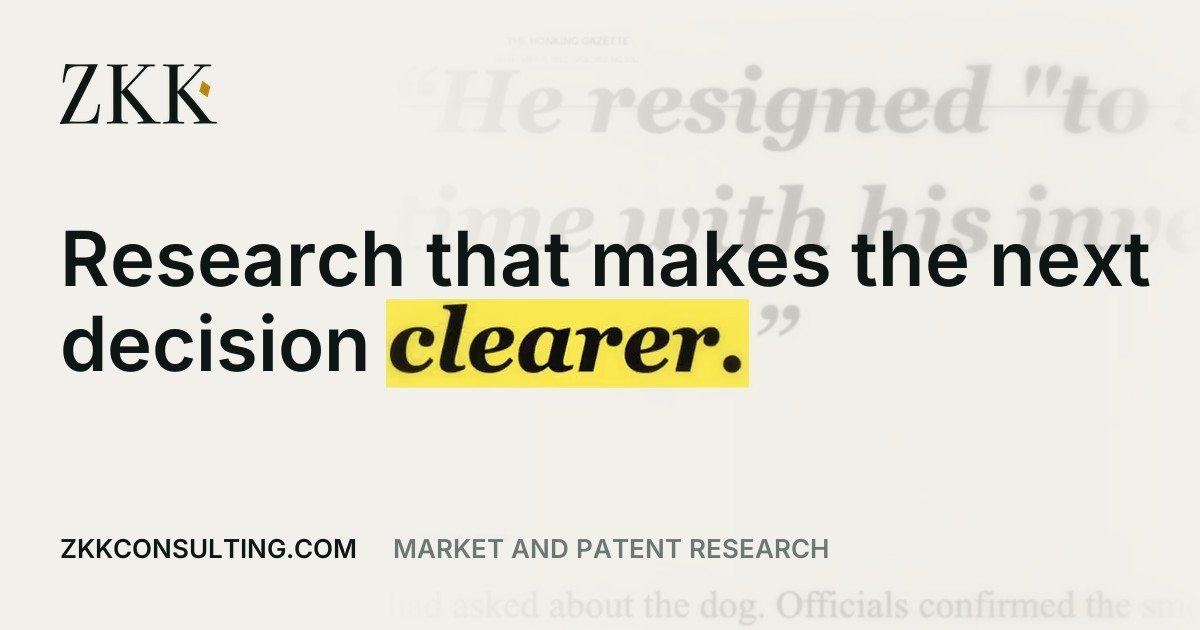
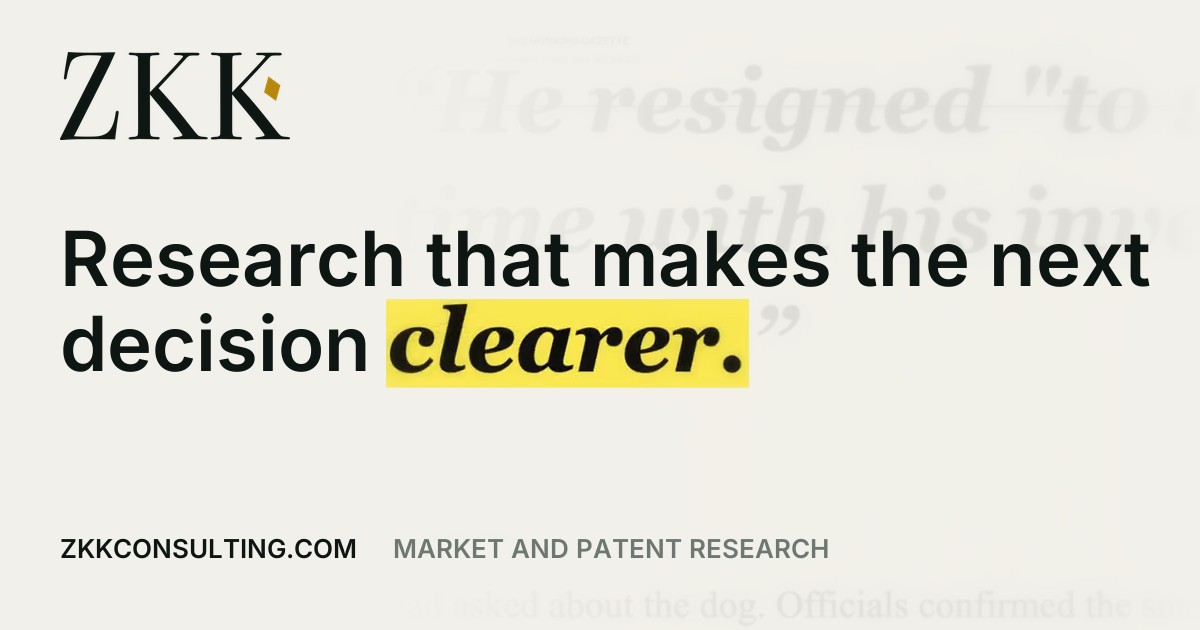
Research intro leads with what ZKK does for any company, quieter link styling, og-image with a bigger ZKK mark and a fainter ghost frame

Changed region(s): [[0.0308, 0.0603, 0.2467, 0.2413]]

diff --git a/index.html b/index.html
@@ -11,14 +11,14 @@
   <meta property="og:title" content="Engineering-Led Product Consulting &amp; Market Research | ZKK" />
   <meta property="og:description" content="Fixed-price market research, patent landscapes, competitive pricing and strategy for engineering-led products. Startups and device teams. From $2,499." />
   <meta property="og:url" content="https://zkkconsulting.com/" />
-  <meta property="og:image" content="https://zkkconsulting.com/og-image.jpg?v=2" />
+  <meta property="og:image" content="https://zkkconsulting.com/og-image.jpg?v=3" />
   <meta property="og:image:width" content="1200" />
   <meta property="og:image:height" content="630" />
   <meta property="og:image:alt" content="ZKK Consulting: Research that makes the next decision clearer." />
   <meta name="twitter:card" content="summary_large_image" />
   <meta name="twitter:title" content="Engineering-Led Product Consulting &amp; Market Research | ZKK" />
   <meta name="twitter:description" content="Fixed-price market research, patent landscapes, competitive pricing and strategy for engineering-led products. Startups and device teams. From $2,499." />
-  <meta name="twitter:image" content="https://zkkconsulting.com/og-image.jpg?v=2" />
+  <meta name="twitter:image" content="https://zkkconsulting.com/og-image.jpg?v=3" />
 
   <meta name="author" content="ZKK Consulting" />
   <meta name="theme-color" content="#fbfaf7" />
@@ -39,7 +39,7 @@
   <link rel="preconnect" href="https://fonts.googleapis.com">
   <link rel="preconnect" href="https://fonts.gstatic.com" crossorigin>
   <link href="https://fonts.googleapis.com/css2?family=Lora:ital,wght@0,400;0,500;0,600;0,700;1,400&family=Inter:wght@300;400;500;600;700;800&display=swap" rel="stylesheet">
-  <link rel="stylesheet" href="/assets/site.css?v=20261121n">
+  <link rel="stylesheet" href="/assets/site.css?v=20261121o">
   <script type="application/ld+json">
   {
     "@context": "https://schema.org",
@@ -182,7 +182,7 @@
 
   <section id="research" class="hs">
     <h2>What we research</h2>
-    <p class="h-lede h-intro"><a href="/market-sizing-for-startups/">Market sizing</a>, <a href="/medical-device-competitive-landscape/">competitor analysis</a> and <a href="/patent-landscape-research/">patent landscape research</a> for hardware startups and medical device teams.</p>
+    <p class="h-lede h-intro">We help companies make better business and product decisions with technical, financial and competitive research: <a href="/market-sizing-for-startups/">market sizing</a>, <a href="/medical-device-competitive-landscape/">competitor analysis</a>, <a href="/patent-landscape-research/">patent landscapes</a> and more. Built for startups and medical device teams, open to any industry.</p>
     <div class="h-tiles">
       <div class="h-tile"><svg viewBox="0 0 24 24" aria-hidden="true"><circle cx="11" cy="11" r="7"/><path d="M20 20l-3.5-3.5"/></svg><h3>Competitors</h3><p>Who you are up against, how they price, and where the gaps are.</p></div>
       <div class="h-tile"><svg viewBox="0 0 24 24" aria-hidden="true"><path d="M4 19V5"/><path d="M4 19h16"/><path d="M8 15v-4M12 15V8M16 15v-6"/></svg><h3>Market size</h3><p>TAM, SAM and SOM built from sources you can check.</p></div>

diff --git a/insights/consultant-vs-diy-ai-research/index.html b/insights/consultant-vs-diy-ai-research/index.html
@@ -11,14 +11,14 @@
   <meta property="og:title" content="Research Consultant vs DIY and AI Research | ZKK" />
   <meta property="og:description" content="Compare hiring a research consultant with doing market research yourself or with AI tools: time, sources, assumptions, risk and cost. Book a call to discuss." />
   <meta property="og:url" content="https://zkkconsulting.com/insights/consultant-vs-diy-ai-research/" />
-  <meta property="og:image" content="https://zkkconsulting.com/og-image.jpg?v=2" />
+  <meta property="og:image" content="https://zkkconsulting.com/og-image.jpg?v=3" />
   <meta property="og:image:width" content="1200" />
   <meta property="og:image:height" content="630" />
   <meta property="og:image:alt" content="ZKK Consulting: Research that makes the next decision clearer." />
   <meta name="twitter:card" content="summary_large_image" />
   <meta name="twitter:title" content="Research Consultant vs DIY and AI Research | ZKK" />
   <meta name="twitter:description" content="Compare hiring a research consultant with doing market research yourself or with AI tools: time, sources, assumptions, risk and cost. Book a call to discuss." />
-  <meta name="twitter:image" content="https://zkkconsulting.com/og-image.jpg?v=2" />
+  <meta name="twitter:image" content="https://zkkconsulting.com/og-image.jpg?v=3" />
 
   <meta name="author" content="ZKK Consulting" />
   <meta name="theme-color" content="#0a0c0b" />
@@ -30,7 +30,7 @@
   <link rel="preconnect" href="https://fonts.gstatic.com" crossorigin>
   <link href="https://fonts.googleapis.com/css2?family=Lora:ital,wght@0,400;0,500;0,600;0,700;1,400&family=Inter:wght@300;400;500;600&display=swap" rel="stylesheet">
   <link rel="stylesheet" href="/assets/blueprint.css?v=5">
-  <link rel="stylesheet" href="/assets/site.css?v=20261121n">
+  <link rel="stylesheet" href="/assets/site.css?v=20261121o">
   <link rel="stylesheet" href="/assets/prose.css?v=20261113a">
   <script type="application/ld+json">
   {
@@ -51,7 +51,7 @@
       "@id": "https://zkkconsulting.com/#org",
       "name": "ZKK Consulting"
     },
-    "image": "https://zkkconsulting.com/og-image.jpg?v=2"
+    "image": "https://zkkconsulting.com/og-image.jpg?v=3"
   }
   </script>
   <script type="application/ld+json">

diff --git a/insights/how-to-size-a-market-for-a-new-device/index.html b/insights/how-to-size-a-market-for-a-new-device/index.html
@@ -11,14 +11,14 @@
   <meta property="og:title" content="How to Size a Market for a New Device | ZKK" />
   <meta property="og:description" content="A step-by-step guide to sizing the market for a new hardware or medical device, from buyer and unit of count to sensitivity. Book a call if you want help." />
   <meta property="og:url" content="https://zkkconsulting.com/insights/how-to-size-a-market-for-a-new-device/" />
-  <meta property="og:image" content="https://zkkconsulting.com/og-image.jpg?v=2" />
+  <meta property="og:image" content="https://zkkconsulting.com/og-image.jpg?v=3" />
   <meta property="og:image:width" content="1200" />
   <meta property="og:image:height" content="630" />
   <meta property="og:image:alt" content="ZKK Consulting: Research that makes the next decision clearer." />
   <meta name="twitter:card" content="summary_large_image" />
   <meta name="twitter:title" content="How to Size a Market for a New Device | ZKK" />
   <meta name="twitter:description" content="A step-by-step guide to sizing the market for a new hardware or medical device, from buyer and unit of count to sensitivity. Book a call if you want help." />
-  <meta name="twitter:image" content="https://zkkconsulting.com/og-image.jpg?v=2" />
+  <meta name="twitter:image" content="https://zkkconsulting.com/og-image.jpg?v=3" />
 
   <meta name="author" content="ZKK Consulting" />
   <meta name="theme-color" content="#0a0c0b" />
@@ -30,7 +30,7 @@
   <link rel="preconnect" href="https://fonts.gstatic.com" crossorigin>
   <link href="https://fonts.googleapis.com/css2?family=Lora:ital,wght@0,400;0,500;0,600;0,700;1,400&family=Inter:wght@300;400;500;600&display=swap" rel="stylesheet">
   <link rel="stylesheet" href="/assets/blueprint.css?v=5">
-  <link rel="stylesheet" href="/assets/site.css?v=20261121n">
+  <link rel="stylesheet" href="/assets/site.css?v=20261121o">
   <link rel="stylesheet" href="/assets/prose.css?v=20261113a">
   <script type="application/ld+json">
   {
@@ -51,7 +51,7 @@
       "@id": "https://zkkconsulting.com/#org",
       "name": "ZKK Consulting"
     },
-    "image": "https://zkkconsulting.com/og-image.jpg?v=2"
+    "image": "https://zkkconsulting.com/og-image.jpg?v=3"
   }
   </script>
   <script type="application/ld+json">

diff --git a/insights/competitor-analysis-for-pitch-deck/index.html b/insights/competitor-analysis-for-pitch-deck/index.html
@@ -11,14 +11,14 @@
   <meta property="og:title" content="Competitor Analysis for a Pitch Deck | ZKK" />
   <meta property="og:description" content="How to build a competitor slide and analysis for a pitch deck: pick the right competitors, compare what buyers care about, and expect investor questions." />
   <meta property="og:url" content="https://zkkconsulting.com/insights/competitor-analysis-for-pitch-deck/" />
-  <meta property="og:image" content="https://zkkconsulting.com/og-image.jpg?v=2" />
+  <meta property="og:image" content="https://zkkconsulting.com/og-image.jpg?v=3" />
   <meta property="og:image:width" content="1200" />
   <meta property="og:image:height" content="630" />
   <meta property="og:image:alt" content="ZKK Consulting: Research that makes the next decision clearer." />
   <meta name="twitter:card" content="summary_large_image" />
   <meta name="twitter:title" content="Competitor Analysis for a Pitch Deck | ZKK" />
   <meta name="twitter:description" content="How to build a competitor slide and analysis for a pitch deck: pick the right competitors, compare what buyers care about, and expect investor questions." />
-  <meta name="twitter:image" content="https://zkkconsulting.com/og-image.jpg?v=2" />
+  <meta name="twitter:image" content="https://zkkconsulting.com/og-image.jpg?v=3" />
 
   <meta name="author" content="ZKK Consulting" />
   <meta name="theme-color" content="#0a0c0b" />
@@ -30,7 +30,7 @@
   <link rel="preconnect" href="https://fonts.gstatic.com" crossorigin>
   <link href="https://fonts.googleapis.com/css2?family=Lora:ital,wght@0,400;0,500;0,600;0,700;1,400&family=Inter:wght@300;400;500;600&display=swap" rel="stylesheet">
   <link rel="stylesheet" href="/assets/blueprint.css?v=5">
-  <link rel="stylesheet" href="/assets/site.css?v=20261121n">
+  <link rel="stylesheet" href="/assets/site.css?v=20261121o">
   <link rel="stylesheet" href="/assets/prose.css?v=20261113a">
   <script type="application/ld+json">
   {
@@ -51,7 +51,7 @@
       "@id": "https://zkkconsulting.com/#org",
       "name": "ZKK Consulting"
     },
-    "image": "https://zkkconsulting.com/og-image.jpg?v=2"
+    "image": "https://zkkconsulting.com/og-image.jpg?v=3"
   }
   </script>
   <script type="application/ld+json">

diff --git a/insights/how-to-do-a-patent-landscape-search/index.html b/insights/how-to-do-a-patent-landscape-search/index.html
@@ -11,14 +11,14 @@
   <meta property="og:title" content="How to Do a Patent Landscape Search | ZKK" />
   <meta property="og:description" content="How a patent landscape search is structured: scope, databases, CPC classification, filtering, comparison matrices, and limits. Book a call to learn more." />
   <meta property="og:url" content="https://zkkconsulting.com/insights/how-to-do-a-patent-landscape-search/" />
-  <meta property="og:image" content="https://zkkconsulting.com/og-image.jpg?v=2" />
+  <meta property="og:image" content="https://zkkconsulting.com/og-image.jpg?v=3" />
   <meta property="og:image:width" content="1200" />
   <meta property="og:image:height" content="630" />
   <meta property="og:image:alt" content="ZKK Consulting: Research that makes the next decision clearer." />
   <meta name="twitter:card" content="summary_large_image" />
   <meta name="twitter:title" content="How to Do a Patent Landscape Search | ZKK" />
   <meta name="twitter:description" content="How a patent landscape search is structured: scope, databases, CPC classification, filtering, comparison matrices, and limits. Book a call to learn more." />
-  <meta name="twitter:image" content="https://zkkconsulting.com/og-image.jpg?v=2" />
+  <meta name="twitter:image" content="https://zkkconsulting.com/og-image.jpg?v=3" />
 
   <meta name="author" content="ZKK Consulting" />
   <meta name="theme-color" content="#0a0c0b" />
@@ -30,7 +30,7 @@
   <link rel="preconnect" href="https://fonts.gstatic.com" crossorigin>
   <link href="https://fonts.googleapis.com/css2?family=Lora:ital,wght@0,400;0,500;0,600;0,700;1,400&family=Inter:wght@300;400;500;600&display=swap" rel="stylesheet">
   <link rel="stylesheet" href="/assets/blueprint.css?v=5">
-  <link rel="stylesheet" href="/assets/site.css?v=20261121n">
+  <link rel="stylesheet" href="/assets/site.css?v=20261121o">
   <link rel="stylesheet" href="/assets/prose.css?v=20261113a">
   <script type="application/ld+json">
   {
@@ -51,7 +51,7 @@
       "@id": "https://zkkconsulting.com/#org",
       "name": "ZKK Consulting"
     },
-    "image": "https://zkkconsulting.com/og-image.jpg?v=2"
+    "image": "https://zkkconsulting.com/og-image.jpg?v=3"
   }
   </script>
   <script type="application/ld+json">

diff --git a/insights/landscape-vs-freedom-to-operate/index.html b/insights/landscape-vs-freedom-to-operate/index.html
@@ -11,14 +11,14 @@
   <meta property="og:title" content="Patent Landscape vs Freedom to Operate | ZKK" />
   <meta property="og:description" content="A patent landscape maps filing activity in your field. Freedom to operate is a legal analysis. Learn the difference and when a startup needs each one." />
   <meta property="og:url" content="https://zkkconsulting.com/insights/landscape-vs-freedom-to-operate/" />
-  <meta property="og:image" content="https://zkkconsulting.com/og-image.jpg?v=2" />
+  <meta property="og:image" content="https://zkkconsulting.com/og-image.jpg?v=3" />
   <meta property="og:image:width" content="1200" />
   <meta property="og:image:height" content="630" />
   <meta property="og:image:alt" content="ZKK Consulting: Research that makes the next decision clearer." />
   <meta name="twitter:card" content="summary_large_image" />
   <meta name="twitter:title" content="Patent Landscape vs Freedom to Operate | ZKK" />
   <meta name="twitter:description" content="A patent landscape maps filing activity in your field. Freedom to operate is a legal analysis. Learn the difference and when a startup needs each one." />
-  <meta name="twitter:image" content="https://zkkconsulting.com/og-image.jpg?v=2" />
+  <meta name="twitter:image" content="https://zkkconsulting.com/og-image.jpg?v=3" />
 
   <meta name="author" content="ZKK Consulting" />
   <meta name="theme-color" content="#0a0c0b" />
@@ -30,7 +30,7 @@
   <link rel="preconnect" href="https://fonts.gstatic.com" crossorigin>
   <link href="https://fonts.googleapis.com/css2?family=Lora:ital,wght@0,400;0,500;0,600;0,700;1,400&family=Inter:wght@300;400;500;600&display=swap" rel="stylesheet">
   <link rel="stylesheet" href="/assets/blueprint.css?v=5">
-  <link rel="stylesheet" href="/assets/site.css?v=20261121n">
+  <link rel="stylesheet" href="/assets/site.css?v=20261121o">
   <link rel="stylesheet" href="/assets/prose.css?v=20261113a">
   <script type="application/ld+json">
   {
@@ -51,7 +51,7 @@
       "@id": "https://zkkconsulting.com/#org",
       "name": "ZKK Consulting"
     },
-    "image": "https://zkkconsulting.com/og-image.jpg?v=2"
+    "image": "https://zkkconsulting.com/og-image.jpg?v=3"
   }
   </script>
   <script type="application/ld+json">

diff --git a/insights/tam-sam-som-medical-devices/index.html b/insights/tam-sam-som-medical-devices/index.html
@@ -11,14 +11,14 @@
   <meta property="og:title" content="TAM, SAM, and SOM for Medical Devices | ZKK" />
   <meta property="og:description" content="How TAM, SAM, and SOM work for medical devices, with a simple hypothetical example and the mistakes that fail diligence. Book a call to talk it through." />
   <meta property="og:url" content="https://zkkconsulting.com/insights/tam-sam-som-medical-devices/" />
-  <meta property="og:image" content="https://zkkconsulting.com/og-image.jpg?v=2" />
+  <meta property="og:image" content="https://zkkconsulting.com/og-image.jpg?v=3" />
   <meta property="og:image:width" content="1200" />
   <meta property="og:image:height" content="630" />
   <meta property="og:image:alt" content="ZKK Consulting: Research that makes the next decision clearer." />
   <meta name="twitter:card" content="summary_large_image" />
   <meta name="twitter:title" content="TAM, SAM, and SOM for Medical Devices | ZKK" />
   <meta name="twitter:description" content="How TAM, SAM, and SOM work for medical devices, with a simple hypothetical example and the mistakes that fail diligence. Book a call to talk it through." />
-  <meta name="twitter:image" content="https://zkkconsulting.com/og-image.jpg?v=2" />
+  <meta name="twitter:image" content="https://zkkconsulting.com/og-image.jpg?v=3" />
 
   <meta name="author" content="ZKK Consulting" />
   <meta name="theme-color" content="#0a0c0b" />
@@ -30,7 +30,7 @@
   <link rel="preconnect" href="https://fonts.gstatic.com" crossorigin>
   <link href="https://fonts.googleapis.com/css2?family=Lora:ital,wght@0,400;0,500;0,600;0,700;1,400&family=Inter:wght@300;400;500;600&display=swap" rel="stylesheet">
   <link rel="stylesheet" href="/assets/blueprint.css?v=5">
-  <link rel="stylesheet" href="/assets/site.css?v=20261121n">
+  <link rel="stylesheet" href="/assets/site.css?v=20261121o">
   <link rel="stylesheet" href="/assets/prose.css?v=20261113a">
   <script type="application/ld+json">
   {
@@ -51,7 +51,7 @@
       "@id": "https://zkkconsulting.com/#org",
       "name": "ZKK Consulting"
     },
-    "image": "https://zkkconsulting.com/og-image.jpg?v=2"
+    "image": "https://zkkconsulting.com/og-image.jpg?v=3"
   }
   </script>
   <script type="application/ld+json">

diff --git a/work/fall-detection-sample/index.html b/work/fall-detection-sample/index.html
@@ -11,14 +11,14 @@
   <meta property="og:title" content="Wrist-Worn Fall Detection Research Sample | ZKK" />
   <meta property="og:description" content="A client report, shared with consent: Comprehensive market research plus Patent Landscape Research for wrist-worn fall detection. Read the full PDF." />
   <meta property="og:url" content="https://zkkconsulting.com/work/fall-detection-sample/" />
-  <meta property="og:image" content="https://zkkconsulting.com/og-image.jpg?v=2" />
+  <meta property="og:image" content="https://zkkconsulting.com/og-image.jpg?v=3" />
   <meta property="og:image:width" content="1200" />
   <meta property="og:image:height" content="630" />
   <meta property="og:image:alt" content="ZKK Consulting: Research that makes the next decision clearer." />
   <meta name="twitter:card" content="summary_large_image" />
   <meta name="twitter:title" content="Wrist-Worn Fall Detection Research Sample | ZKK" />
   <meta name="twitter:description" content="A client report, shared with consent: Comprehensive market research plus Patent Landscape Research for wrist-worn fall detection. Read the full PDF." />
-  <meta name="twitter:image" content="https://zkkconsulting.com/og-image.jpg?v=2" />
+  <meta name="twitter:image" content="https://zkkconsulting.com/og-image.jpg?v=3" />
 
   <meta name="author" content="ZKK Consulting" />
   <meta name="theme-color" content="#0a0c0b" />
@@ -30,7 +30,7 @@
   <link rel="preconnect" href="https://fonts.gstatic.com" crossorigin>
   <link href="https://fonts.googleapis.com/css2?family=Lora:ital,wght@0,400;0,500;0,600;0,700;1,400&family=Inter:wght@300;400;500;600&display=swap" rel="stylesheet">
   <link rel="stylesheet" href="/assets/blueprint.css?v=5">
-  <link rel="stylesheet" href="/assets/site.css?v=20261121n">
+  <link rel="stylesheet" href="/assets/site.css?v=20261121o">
   <link rel="stylesheet" href="/assets/prose.css?v=20261113a">
   <script type="application/ld+json">
   {
@@ -51,7 +51,7 @@
       "@id": "https://zkkconsulting.com/#org",
       "name": "ZKK Consulting"
     },
-    "image": "https://zkkconsulting.com/og-image.jpg?v=2"
+    "image": "https://zkkconsulting.com/og-image.jpg?v=3"
   }
   </script>
   <script type="application/ld+json">

diff --git a/team/index.html b/team/index.html
@@ -11,14 +11,14 @@
   <meta property="og:title" content="Zolomon Kaliser and Jad Haddad: Research Team | ZKK" />
   <meta property="og:description" content="Meet the ZKK Consulting co-founders behind the research, Zolomon Kaliser and Jad Haddad: education, engineering projects, experience, and credentials." />
   <meta property="og:url" content="https://zkkconsulting.com/team/" />
-  <meta property="og:image" content="https://zkkconsulting.com/og-image.jpg?v=2" />
+  <meta property="og:image" content="https://zkkconsulting.com/og-image.jpg?v=3" />
   <meta property="og:image:width" content="1200" />
   <meta property="og:image:height" content="630" />
   <meta property="og:image:alt" content="ZKK Consulting: Research that makes the next decision clearer." />
   <meta name="twitter:card" content="summary_large_image" />
   <meta name="twitter:title" content="Zolomon Kaliser and Jad Haddad: Research Team | ZKK" />
   <meta name="twitter:description" content="Meet the ZKK Consulting co-founders behind the research, Zolomon Kaliser and Jad Haddad: education, engineering projects, experience, and credentials." />
-  <meta name="twitter:image" content="https://zkkconsulting.com/og-image.jpg?v=2" />
+  <meta name="twitter:image" content="https://zkkconsulting.com/og-image.jpg?v=3" />
 
   <meta name="author" content="ZKK Consulting LLC" />
   <meta name="theme-color" content="#0a0c0b" />
@@ -30,7 +30,7 @@
   <link rel="preconnect" href="https://fonts.gstatic.com" crossorigin>
   <link href="https://fonts.googleapis.com/css2?family=Lora:ital,wght@0,400;0,500;0,600;0,700;1,400&family=Inter:wght@300;400;500;600&display=swap" rel="stylesheet">
   <link rel="stylesheet" href="/assets/blueprint.css?v=5">
-  <link rel="stylesheet" href="/assets/site.css?v=20261121n">
+  <link rel="stylesheet" href="/assets/site.css?v=20261121o">
   <style>
     .about-grid { display: grid; grid-template-columns: 1fr 1fr; gap: 3.2rem; align-items: stretch; max-width: 1100px; margin: 0 auto; }
     .about-text h2 { text-align: left; margin-bottom: 1.4rem; }

diff --git a/legal/index.html b/legal/index.html
@@ -11,14 +11,14 @@
   <meta property="og:title" content="Legal Notices &amp; Disclaimers | ZKK Consulting" />
   <meta property="og:description" content="Legal notices, disclaimers and terms for ZKK Consulting research services, including patent, regulatory, referral program and website terms. Research only." />
   <meta property="og:url" content="https://zkkconsulting.com/legal/" />
-  <meta property="og:image" content="https://zkkconsulting.com/og-image.jpg?v=2" />
+  <meta property="og:image" content="https://zkkconsulting.com/og-image.jpg?v=3" />
   <meta property="og:image:width" content="1200" />
   <meta property="og:image:height" content="630" />
   <meta property="og:image:alt" content="ZKK Consulting: Research that makes the next decision clearer." />
   <meta name="twitter:card" content="summary_large_image" />
   <meta name="twitter:title" content="Legal Notices &amp; Disclaimers | ZKK Consulting" />
   <meta name="twitter:description" content="Legal notices, disclaimers and terms for ZKK Consulting research services, including patent, regulatory, referral program and website terms. Research only." />
-  <meta name="twitter:image" content="https://zkkconsulting.com/og-image.jpg?v=2" />
+  <meta name="twitter:image" content="https://zkkconsulting.com/og-image.jpg?v=3" />
 
   <meta name="author" content="ZKK Consulting LLC" />
   <meta name="theme-color" content="#0a0c0b" />
@@ -30,7 +30,7 @@
   <link rel="preconnect" href="https://fonts.gstatic.com" crossorigin>
   <link href="https://fonts.googleapis.com/css2?family=Lora:ital,wght@0,400;0,500;0,600;0,700;1,400&family=Inter:wght@300;400;500;600&display=swap" rel="stylesheet">
   <link rel="stylesheet" href="/assets/blueprint.css?v=5">
-  <link rel="stylesheet" href="/assets/site.css?v=20261121n">
+  <link rel="stylesheet" href="/assets/site.css?v=20261121o">
   <style>
     .legal-intro, nav.legal-toc, .legal-body { max-width: 760px; margin-left: auto; margin-right: auto; padding-left: 24px; padding-right: 24px; }
     .legal-intro { margin-top: 2.6rem; }

diff --git a/work/index.html b/work/index.html
@@ -11,14 +11,14 @@
   <meta property="og:title" content="Market Research Case Studies &amp; Sample Reports | ZKK" />
   <meta property="og:description" content="Case studies by industry and challenge, plus sample market research and patent landscape deliverables you can open and read. Client work is labeled separately." />
   <meta property="og:url" content="https://zkkconsulting.com/work/" />
-  <meta property="og:image" content="https://zkkconsulting.com/og-image.jpg?v=2" />
+  <meta property="og:image" content="https://zkkconsulting.com/og-image.jpg?v=3" />
   <meta property="og:image:width" content="1200" />
   <meta property="og:image:height" content="630" />
   <meta property="og:image:alt" content="ZKK Consulting: Research that makes the next decision clearer." />
   <meta name="twitter:card" content="summary_large_image" />
   <meta name="twitter:title" content="Market Research Case Studies &amp; Sample Reports | ZKK" />
   <meta name="twitter:description" content="Case studies by industry and challenge, plus sample market research and patent landscape deliverables you can open and read. Client work is labeled separately." />
-  <meta name="twitter:image" content="https://zkkconsulting.com/og-image.jpg?v=2" />
+  <meta name="twitter:image" content="https://zkkconsulting.com/og-image.jpg?v=3" />
 
   <meta name="author" content="ZKK Consulting" />
   <meta name="theme-color" content="#0a0c0b" />
@@ -29,7 +29,7 @@
   <link rel="preconnect" href="https://fonts.googleapis.com">
   <link rel="preconnect" href="https://fonts.gstatic.com" crossorigin>
   <link href="https://fonts.googleapis.com/css2?family=Lora:ital,wght@0,400;0,500;0,600;0,700;1,400&family=Inter:wght@300;400;500;600&display=swap" rel="stylesheet">
-  <link rel="stylesheet" href="/assets/site.css?v=20261121n">
+  <link rel="stylesheet" href="/assets/site.css?v=20261121o">
   <link rel="stylesheet" href="/assets/prose.css?v=20261113a">
   <link rel="stylesheet" href="/assets/blueprint.css?v=5">
   <link rel="stylesheet" href="/assets/tour.css?v=33">

diff --git a/referrals/index.html b/referrals/index.html
@@ -11,14 +11,14 @@
   <meta property="og:title" content="Referral Program: 15% Off Your Next Package | ZKK Consulting" />
   <meta property="og:description" content="Introduce a business to ZKK Consulting. When your referral signs and fully pays for their first engagement, you receive 15% off your next consulting package." />
   <meta property="og:url" content="https://zkkconsulting.com/referrals/" />
-  <meta property="og:image" content="https://zkkconsulting.com/og-image.jpg?v=2" />
+  <meta property="og:image" content="https://zkkconsulting.com/og-image.jpg?v=3" />
   <meta property="og:image:width" content="1200" />
   <meta property="og:image:height" content="630" />
   <meta property="og:image:alt" content="ZKK Consulting: Research that makes the next decision clearer." />
   <meta name="twitter:card" content="summary_large_image" />
   <meta name="twitter:title" content="Referral Program: 15% Off Your Next Package | ZKK Consulting" />
   <meta name="twitter:description" content="Introduce a business to ZKK Consulting. When your referral signs and fully pays for their first engagement, you receive 15% off your next consulting package." />
-  <meta name="twitter:image" content="https://zkkconsulting.com/og-image.jpg?v=2" />
+  <meta name="twitter:image" content="https://zkkconsulting.com/og-image.jpg?v=3" />
 
   <meta name="author" content="ZKK Consulting" />
   <meta name="theme-color" content="#0a0c0b" />
@@ -30,7 +30,7 @@
   <link rel="preconnect" href="https://fonts.gstatic.com" crossorigin>
   <link href="https://fonts.googleapis.com/css2?family=Lora:ital,wght@0,400;0,500;0,600;0,700;1,400&family=Inter:wght@300;400;500;600&display=swap" rel="stylesheet">
   <link rel="stylesheet" href="/assets/blueprint.css?v=5">
-  <link rel="stylesheet" href="/assets/site.css?v=20261121n">
+  <link rel="stylesheet" href="/assets/site.css?v=20261121o">
   <link rel="stylesheet" href="/assets/edits/e3-referrals-steps.css"> <!-- edit-3 -->
   <script type="application/ld+json">
   {
